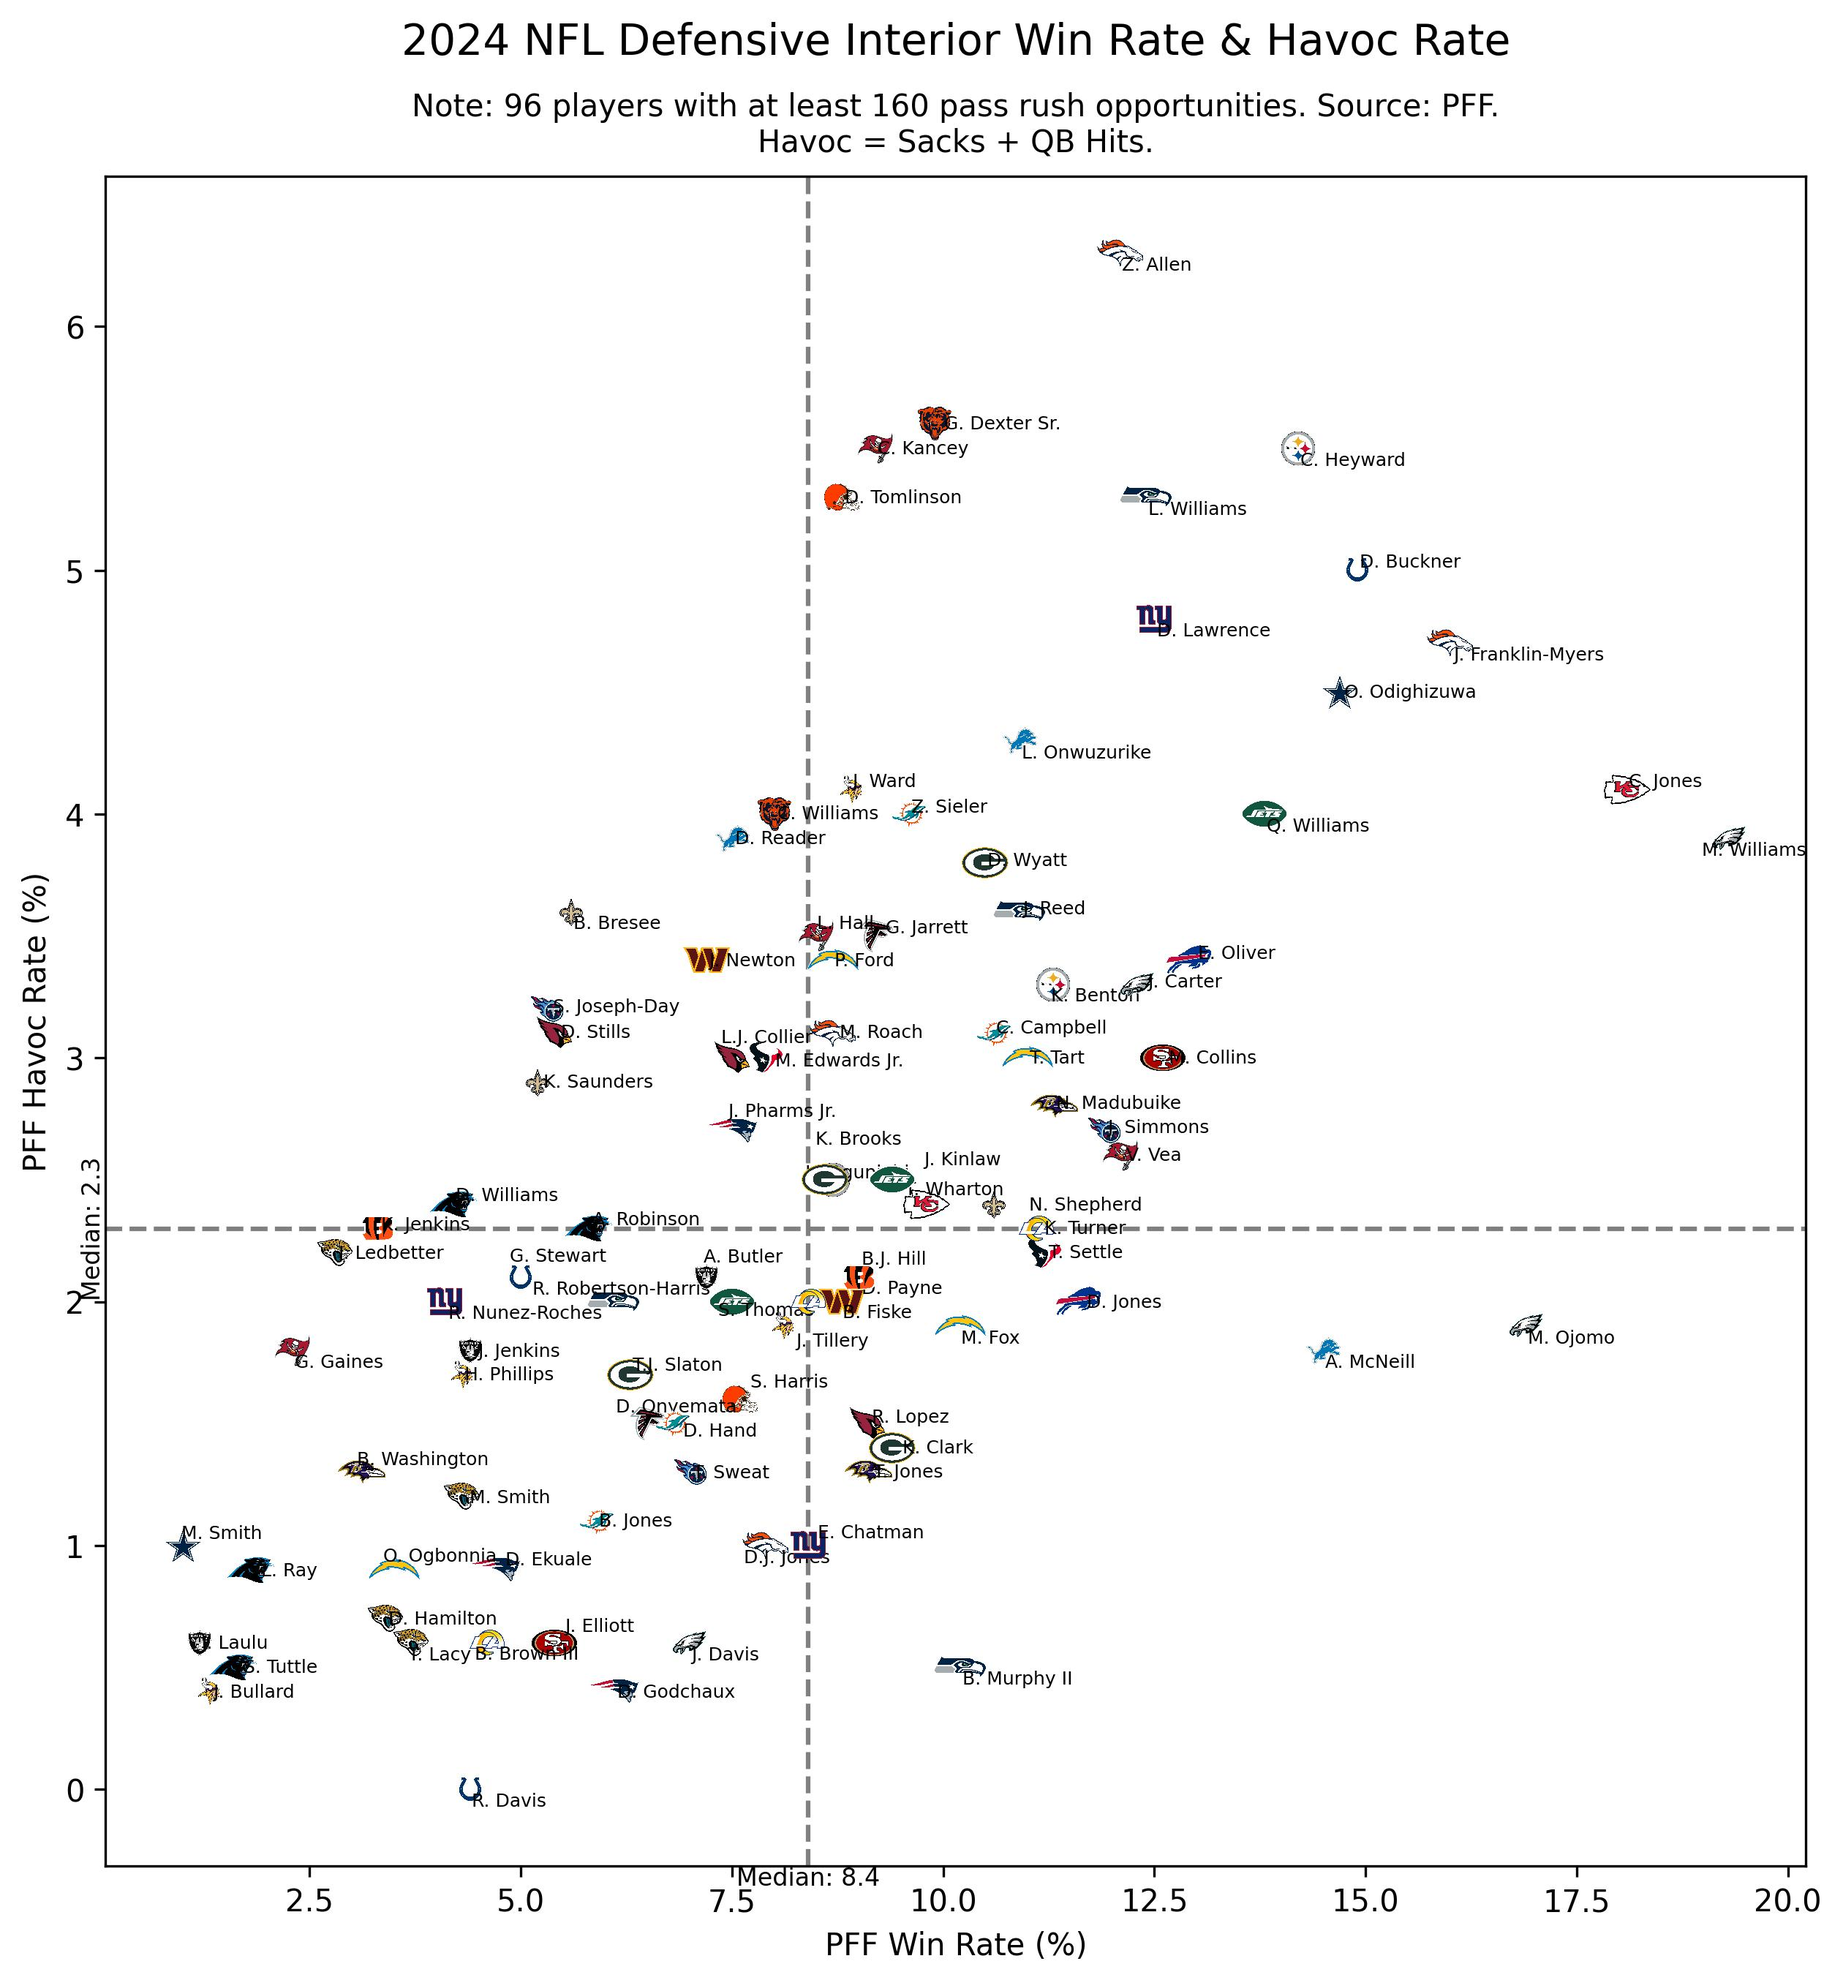
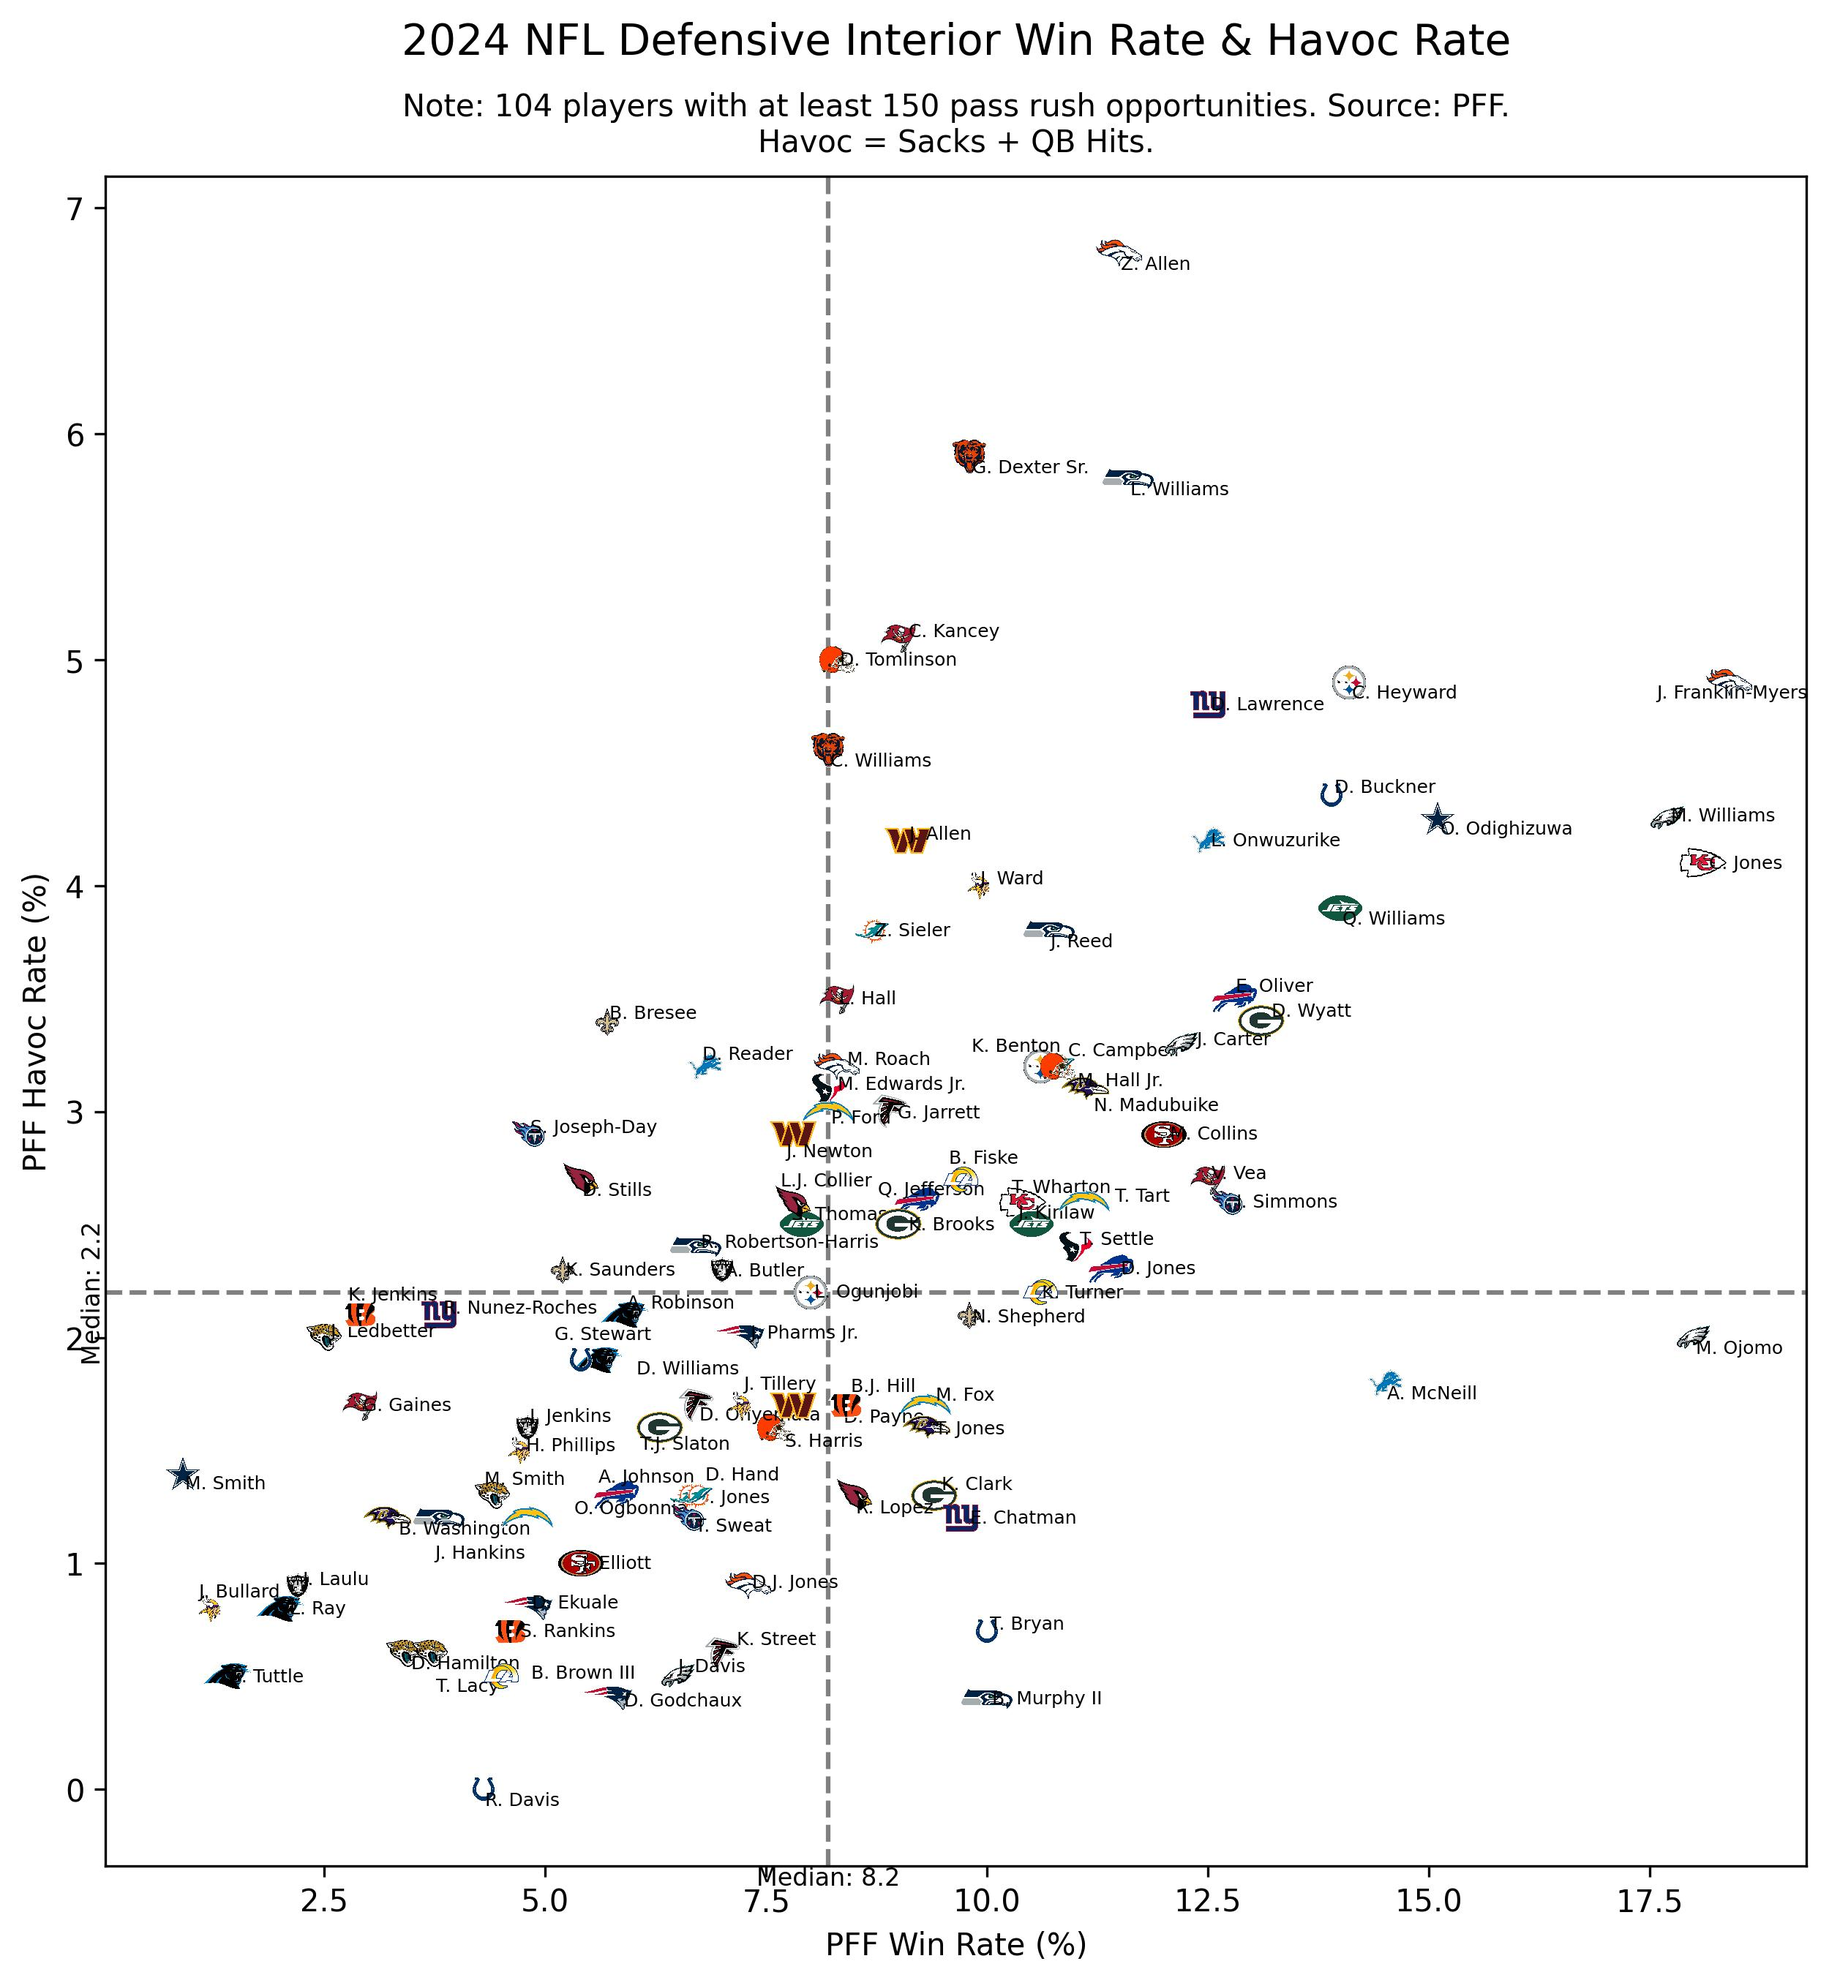
Completed 2024 Week 18.

diff --git a/scatter_plots/pass_rush_plot.py b/scatter_plots/pass_rush_plot.py
@@ -138,16 +138,20 @@ if __name__ == "__main__":
     from config import HAVOC_NOTE
 
     queries = [
-        [2024, "DI", 160], [2024, "ED", 200]
+        [2024, "DI", 150], [2024, "ED", 190]
     ]
     for query_season, query_position, query_threshold in queries:
         plot_pass_rush(
             query_season, query_position, query_threshold,
             "TPS Win Rate", "Win Rate"
         )
-
     for query_season, query_position, query_threshold in queries:
         plot_pass_rush(
             query_season, query_position, query_threshold,
             "Win Rate", "Havoc Rate", extra_note=HAVOC_NOTE
+        )
+    for query_season, query_position, query_threshold in queries:
+        plot_pass_rush(
+            query_season, query_position, query_threshold,
+            "Pressure Rate", "Havoc Rate", extra_note=HAVOC_NOTE
         )

diff --git a/scatter_plots/pass_block_plot.py b/scatter_plots/pass_block_plot.py
@@ -137,7 +137,7 @@ def plot_pass_block(
 
 if __name__ == "__main__":
     queries = [
-        [2024, "T", 280], [2024, "G", 280], [2024, "C", 280]
+        [2024, "T", 300], [2024, "G", 300], [2024, "C", 300]
     ]
     for query_season, query_position, query_threshold in queries:
         plot_pass_block(
